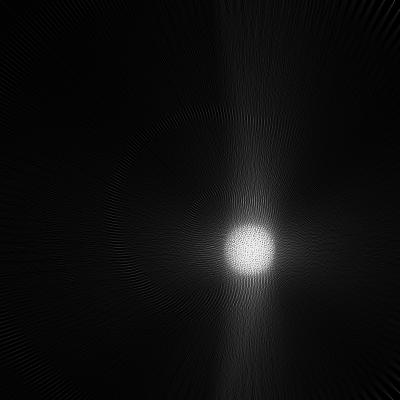
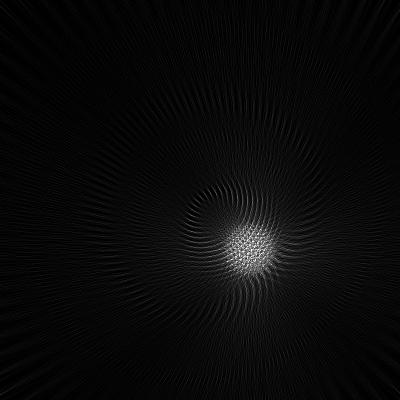
Read dicom files.

Changed region(s): [[0.45, 0.24, 0.75, 0.96]]

diff --git a/tomograph.py b/tomograph.py
@@ -5,7 +5,6 @@ from math import *
 from skimage.draw import line
 import numpy as np
 import cv2
-from PIL import Image
 from scipy.misc import toimage
 from PIL.ImageQt import ImageQt
 import pydicom
@@ -14,8 +13,79 @@ import random
 import math
 
 
+
+class dicom_Dialog(QtWidgets.QDialog):
+    def __init__(self, pixMap = None, args = None):
+        super().__init__()
+        self.image_label = QtWidgets.QLabel(self)
+        self.parient_id_label = QtWidgets.QLabel(self)
+        self.parient_forename_label = QtWidgets.QLabel(self)
+        self.parient_surname_label = QtWidgets.QLabel(self)
+        self.comments_label = QtWidgets.QLabel(self)
+        self.date_label = QtWidgets.QLabel(self)
+        self.info_label = QtWidgets.QLabel(self)
+
+        self.ok_button = QtWidgets.QPushButton(self)
+
+        self.initGui(pixMap, args)
+
+        self.setModal(True)
+
+
+    def initGui(self, pixMap, args):
+
+        PatinetID = args[0]
+        Date = args[2]
+        Comments = args[3]
+
+        Forename = args[1].split(' ')[0]
+        Surname = args[1].split(' ')[1]
+
+        print(Date)
+
+
+        self.image_label.setGeometry(300, 10, 300, 300)
+        pixMap = pixMap.scaled(self.image_label.width(), self.image_label.height())
+        self.image_label.setPixmap(pixMap)
+
+        self.info_label.setGeometry(10, 10, 400, 50)
+        self.info_label.setText("Dane pacjenta")
+        self.info_label.setStyleSheet("font-size: 30px;")
+
+        self.parient_id_label.setGeometry(10, 50, 400, 50)
+        self.parient_id_label.setText("ID: " + PatinetID)
+        self.parient_id_label.setStyleSheet("font-size: 18px;")
+
+        self.parient_forename_label.setGeometry(10, 90, 400, 50)
+        self.parient_forename_label.setText("Imię: "+ Forename)
+        self.parient_forename_label.setStyleSheet("font-size: 18px;")
+
+        self.parient_surname_label.setGeometry(10, 130, 400, 50)
+        self.parient_surname_label.setText("Nazwisko: " + Surname)
+        self.parient_surname_label.setStyleSheet("font-size: 18px;")
+
+        self.date_label.setGeometry(10, 170, 400, 50)
+        self.date_label.setText("Data badania: " + Date)
+        self.date_label.setStyleSheet("font-size: 18px;")
+
+        self.comments_label.setGeometry(10, 210, 400, 50)
+        self.comments_label.setText("Komentarz: " + Comments)
+        self.comments_label.setStyleSheet("font-size: 18px;")
+
+        self.ok_button.setGeometry(10,260,280,50)
+        self.ok_button.setText("Zamknij")
+        self.ok_button.setStyleSheet("font-size: 18px;")
+        self.ok_button.clicked.connect(self.exit)
+
+
+    def exit(self):
+        self.destroy()
+
+
+
+
 class Ui_Dialog(QtWidgets.QDialog):
-    def __init__(self, pixMap = None, output = None):
+    def __init__(self, pixMap = None):
         super().__init__()
 
         self.info_label = QtWidgets.QLabel(self)
@@ -86,10 +156,10 @@ class Ui_Dialog(QtWidgets.QDialog):
         self.submitButton.setStyleSheet("font-size: 18px;")
         self.submitButton.clicked.connect(self.saveImageAsDicom)
 
-        qim = ImageQt(pixMap)
-        pixM = QtGui.QPixmap.fromImage(qim)
-        pixM = pixM.scaled(self.image_label.width(), self.image_label.height())
-        self.image_label.setPixmap(pixM)
+        #qim = ImageQt(pixMap)
+        #pixM = QtGui.QPixmap.fromImage(qim)
+        pixMap = pixMap.scaled(self.image_label.width(), self.image_label.height())
+        self.image_label.setPixmap(pixMap)
 
     def calendarClicked(self):
         self.date_label.setText("Data badania: " + self.calendar.selectedDate().toString("dd/MM/yy"))
@@ -145,12 +215,6 @@ class Ui_Dialog(QtWidgets.QDialog):
 
             ds.save_as(name, False)
 
-
-            print('Load file {} ...')
-            ds = pydicom.dcmread(name)
-            print(ds)
-
-
             self.destroy()
 
 
@@ -191,7 +255,7 @@ class Window(QtWidgets.QMainWindow):
         self.imgAs2DArray = 0
         self.array = []
 
-        self.sinogramPixMap = 0
+        self.outputPixMap = 0
         self.output = 0
 
         self.rrs = []
@@ -307,6 +371,8 @@ class Window(QtWidgets.QMainWindow):
     def check_err(self):
         img_in = self.imgAs2DArray
         img_out = self.filt_arr
+
+
         sum = 0
         if (img_in.shape[0] != img_out.shape[0]) or (img_in.shape[1] != img_out.shape[1]):
             print("Measures of input and output image are not the same")
@@ -350,7 +416,7 @@ class Window(QtWidgets.QMainWindow):
 
     def saveResult(self):
         dialog = QtWidgets.QDialog()
-        self.dialog = Ui_Dialog(pixMap=self.sinogramPixMap, output=self.output)
+        self.dialog = Ui_Dialog(pixMap=self.outputPixMap)
         self.dialog.show()
 
     def valuechange(self):
@@ -379,7 +445,19 @@ class Window(QtWidgets.QMainWindow):
 
         return arr
 
-    def inverseRadonTransform(self, radon_image):
+    def to3DArray(self,img, cols, rows):
+        result = np.zeros((rows, cols, 3))
+        i = 0
+        j = 0
+        for a in range(int(len(img) / 3)):
+            result[i][j] = img[a] / 255
+            j += 1
+            if j >= rows:
+                j = 0
+                i += 1
+        return result
+
+    def inverseRadonTransform(self):
 
         output = np.zeros((self.imgAs2DArray.shape[0], self.imgAs2DArray.shape[1], 3))
 
@@ -434,19 +512,8 @@ class Window(QtWidgets.QMainWindow):
         pixMap = QtGui.QPixmap.fromImage(qim)
         pixMap = pixMap.scaled(self.image_label3.width(), self.image_label3.height())
         self.image_label3.setPixmap(pixMap)
+        self.outputPixMap = pixMap
 
-    def set_output_image(self, output):
-
-        QtGui.QGuiApplication.processEvents()
-
-        new_out = self.normalizeArray(output)
-        new_out_filt = self.normalize_2nd(new_out)
-        o_img = toimage(new_out_filt)
-
-        qim = ImageQt(o_img)
-        pixMap = QtGui.QPixmap.fromImage(qim)
-        pixMap = pixMap.scaled(self.image_label3.width(), self.image_label3.height())
-        self.image_label3.setPixmap(pixMap)
 
     def generateSinogram(self):
 
@@ -499,10 +566,9 @@ class Window(QtWidgets.QMainWindow):
 
         self.set_sinogram_on_label(self.sinogram)
 
-        sinImg = toimage(self.sinogram)
-        sinImg.save("sin.jpg")
+        #sinImg = toimage(self.sinogram)
+        #sinImg.save("sin.jpg")
         radon_image = cv2.imread('sin.jpg')
-        self.inverseRadonTransform(radon_image)
         self.progress_label.setText("")
 
         print('DONE')
@@ -529,11 +595,18 @@ class Window(QtWidgets.QMainWindow):
         print("generuje output")
 
     def start(self):
+
+        self.outputPixMap = 0
+        self.output = 0
+
+        self.rrs = []
+        self.ccs = []
+
         self.btn_save.setEnabled(False)
         self.btn_start.setEnabled(False)
         self.b2.setEnabled(False)
-        sinogram = self.generateSinogram()
-        self.inverseRadonTransform(sinogram)
+        self.generateSinogram()
+        self.inverseRadonTransform()
         self.check_err()
         self.btn_filter.setEnabled(True)
         self.btn_start.setEnabled(True)
@@ -549,8 +622,26 @@ class Window(QtWidgets.QMainWindow):
         if names[1] == "dcm" or names[1] == "DCM":
             #print("dmc file!")
 
-            ds = pydicom.dcmread(name[0])
-            print(ds.pixel_array)
+            ds = pydicom.dcmread(name[0], force=True)
+
+
+            cols = int(ds.Columns)
+            rows = int(ds.Rows)
+
+            img = np.frombuffer(ds.PixelData, dtype=np.uint8)
+            image = self.to3DArray(img, cols, rows)
+            dicomImage = toimage(image)
+            qim = ImageQt(dicomImage)
+            pixMap = QtGui.QPixmap.fromImage(qim)
+
+
+
+
+            dial = dicom_Dialog(pixMap,[str(ds.PatientID), str(ds.PatientName)
+                , str(ds.ContentDate), str(ds.ImageComments)])
+            dial.exec()
+
+
 
         else:
             pixmap = QtGui.QPixmap(name[0])
